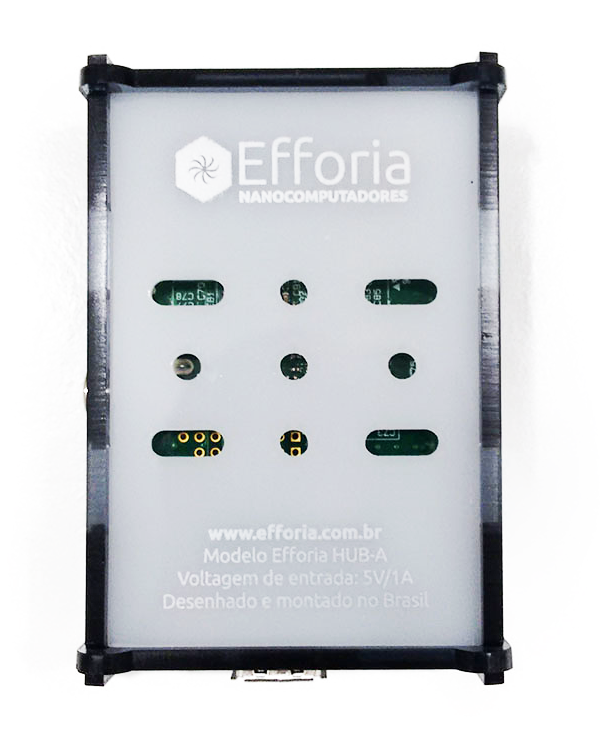
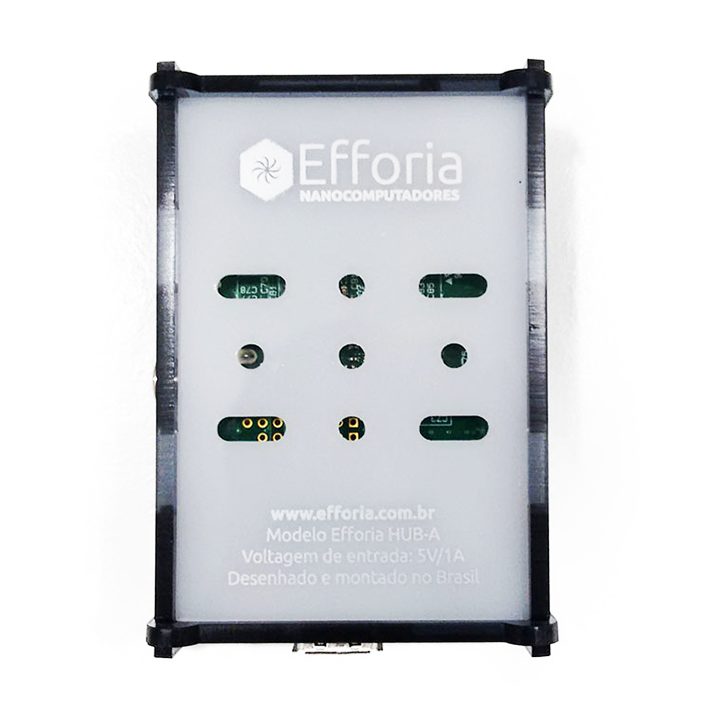
Fixed some styling issues

diff --git a/store/templates/hub/design.html b/store/templates/hub/design.html
@@ -23,7 +23,7 @@
   <div class="row">
     <div class="col-md-6 col-sm-6">
       <div class="text-center col-md-8 col-md-offset-2 col-sm-8 col-sm-offset-2">
-        <img src="{% static 'img/hub-a.png' %}" class="img-responsive photo-md"/>
+        <img src="{% static 'img/hub-a.png' %}" class="img-responsive"/>
       </div>
       <div class="col-md-12 text-center">
         <h2>{% trans "Sustentável" %}</h2>
@@ -35,7 +35,7 @@
     </div>
     <div class="col-md-6 col-sm-6">
       <div class="text-center col-md-8 col-md-offset-2 col-sm-8 col-sm-offset-2">
-        <img src="{% static 'img/hub1.png' %}" class="img-responsive photo-md"/>
+        <img src="{% static 'img/hub1.png' %}" class="img-responsive"/>
       </div>
       <div class="col-md-12 text-center">
         <h2>{% trans "Refrigerado" %}</h2>
@@ -51,7 +51,7 @@
   <div class="row">
     <div class="col-md-6 col-sm-6">
       <div class="text-center">
-        <img src="{% static 'img/hub4.png' %}" class="img-responsive photo-sm"/>
+        <img src="{% static 'img/hub4.png' %}" class="img-responsive"/>
       </div>
       <div class="col-md-12 text-center">
         <h2>{% trans "Nacional" %}</h2>
@@ -63,7 +63,7 @@
     </div>
     <div class="col-md-6 col-sm-6">
       <div class="text-center">
-        <img src="{% static 'img/hub2.png' %}" class="img-responsive photo-sm"/>
+        <img src="{% static 'img/hub2.png' %}" class="img-responsive"/>
       </div>
       <div class="col-md-12 text-center">
         <h2>{% trans "Preciso" %}</h2>

diff --git a/store/templates/pages/services.html b/store/templates/pages/services.html
@@ -49,14 +49,14 @@
   <div class="row text-center">
     <div class="col-md-10 col-md-offset-1">
       <div class="col-md-4 col-sm-4">
-        <img src="{% static 'svg/box.svg' %}" class="img-responsive"/>
+        <img src="{% static 'svg/browser.svg' %}" class="img-responsive third-width photo-xs"/>
         <h3>{% trans "Todos os lugares" %}</h3>
         <p>{% blocktrans %} Atendemos a qualquer demanda conforme disponibilidade para toda a América,
         através de videoconferência, transações e encomendas internacionais. {% endblocktrans %}</p>
       </div>
       <div class="col-md-4 col-sm-4">
         <a href="{% url 'localization' %}">
-          <img src="{% static 'svg/box.svg' %}" class="img-responsive"/>
+          <img src="{% static 'svg/fabricalogo.svg' %}" class="img-responsive third-width photo-xs"/>
         </a>
         <h3>{% trans "Visite-nos" %}</h3>
         <p>{% blocktrans %} Achou legal nosso trabalho? Visite-nos em nosso espaço de coworking ao centro
@@ -64,7 +64,7 @@
       </div>
       <div class="col-md-4 col-sm-4">
         <a href="{% url 'support' %}">
-          <img src="{% static 'svg/box.svg' %}" class="img-responsive"/>
+          <img src="{% static 'svg/pocket.svg' %}" class="img-responsive third-width photo-xs"/>
         </a>
         <div class="col-md-offset-3"></div>
         <h3>{% trans "Ajuda para comprar" %}</h3>

diff --git a/store/templates/pages/choose.html b/store/templates/pages/choose.html
@@ -50,14 +50,14 @@
   <div class="row text-center">
     <div class="col-md-10 col-md-offset-1">
       <div class="col-md-4 col-sm-4">
-        <img src="{% static 'svg/box.svg' %}" class="img-responsive"/>
+        <img src="{% static 'svg/box.svg' %}" class="img-responsive third-width photo-xs"/>
         <h3>{% trans "Entrega de graça" %}</h3>
         <p>Temos frete grátis para todo o Brasil. Para encomendas internacionais,
         o valor cobrado varia para cada região e tamanho do produto adquirido.</p>
       </div>
       <div class="col-md-4 col-sm-4">
         <a href="{% url 'localization' %}">
-          <img src="{% static 'svg/box.svg' %}" class="img-responsive"/>
+          <img src="{% static 'svg/fabricalogo.svg' %}" class="img-responsive third-width photo-xs"/>
         </a>
         <h3>{% trans "Visite-nos" %}</h3>
         <p>{% blocktrans %} Achou legal nosso trabalho? Visite-nos em nosso espaço de coworking ao centro
@@ -65,7 +65,7 @@
       </div>
       <div class="col-md-4 col-sm-4">
         <a href="{% url 'support' %}">
-          <img src="{% static 'svg/box.svg' %}" class="img-responsive"/>
+          <img src="{% static 'svg/pocket.svg' %}" class="img-responsive third-width photo-xs"/>
         </a>
         <div class="col-md-offset-3"></div>
         <h3>{% trans "Ajuda para comprar" %}</h3>

diff --git a/store/public/css/main.css b/store/public/css/main.css
@@ -149,6 +149,11 @@
   margin:0 auto;
 }
 
+.photo-xs {
+  height:200px !important;
+  margin:0 auto;
+}
+
 .highlight {
   margin-top:50px;
   line-height:1.5em;
